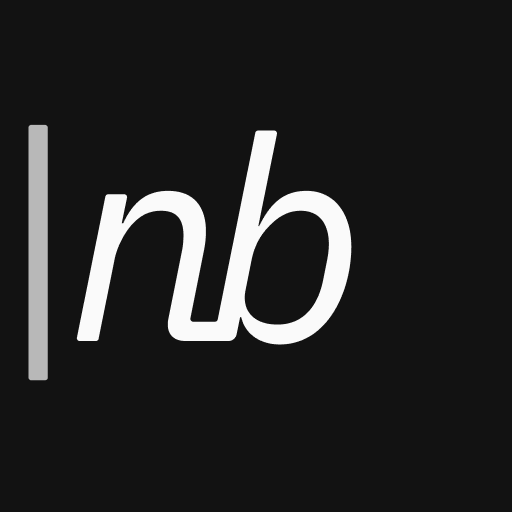
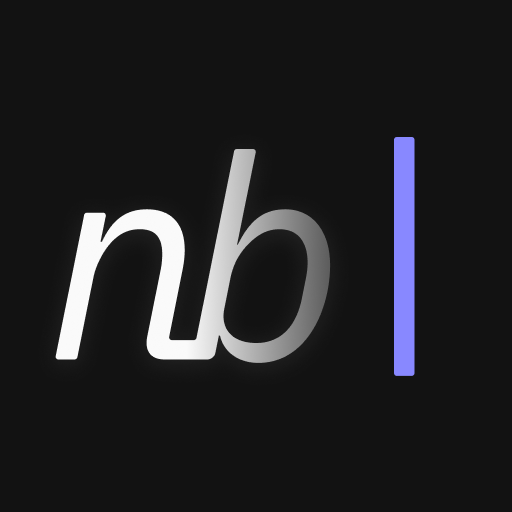
2025 12 03 refinements (#2)
* style: adjust .menu-panel vertical padding

* refactor: convert textarea to contenteditable div for improved mobile UX

This commit implements two key UX improvements for mobile devices:

1. Remove iOS form navigation controls
   - Converted textarea element to contenteditable div
   - Eliminates iOS keyboard accessory bar with prev/next buttons
   - Added proper ARIA attributes (role="textbox", aria-multiline="true")
   - Maintains accessibility while removing unnecessary form controls

2. Add paragraph spacing while preserving line height
   - Implemented 8px margin-top between paragraphs via CSS
   - Maintains 1.3 line-height within paragraphs
   - Uses white-space: pre-wrap to preserve text formatting
   - Each line break creates a new div with proper spacing

Technical changes:
- index.html: Replaced textarea with contenteditable div
- app.js: Added handleInput() to capture contenteditable input
- app.js: Added updateContentEditableContent() to render saved content
- app.js: Updated clearNote() to clear innerHTML of contenteditable div
- style.css: Added paragraph spacing rules (.note-area > div + div)
- style.css: Cleaned up iOS-specific styles, removed unnecessary rules
- sw.js: Bumped cache version from v3 to v4 for PWA updates

All changes are backward compatible with existing saved notes stored
as plain text in LocalForage.

🤖 Generated with [Claude Code](https://claude.com/claude-code)

* style(design): refine PWA icon design
[…]

Changed region(s): [[0.0312, 0.2188, 0.6875, 0.75], [0.75, 0.25, 0.8125, 0.75]]

diff --git a/app.js b/app.js
@@ -43,10 +43,13 @@ function noteApp() {
                 this.updateColorMode();
             });
 
-            // Auto-focus logic: focus if note is empty
+            // Set initial content in contenteditable div
             this.$nextTick(() => {
+                this.updateContentEditableContent();
+
+                // Auto-focus logic: focus if note is empty
                 if (!this.noteContent || this.noteContent.trim() === '') {
-                    this.$refs.textarea.focus();
+                    this.$refs.noteArea.focus();
                 }
             });
         },
@@ -59,6 +62,40 @@ function noteApp() {
                 }
             } catch (err) {
                 console.error('Error loading note:', err);
+            }
+        },
+
+        handleInput(event) {
+            // Get plain text content from contenteditable div
+            // Note: We rely on the @blur event to trigger saveNote() to avoid redundant saves
+            this.noteContent = this.$refs.noteArea.innerText || '';
+        },
+
+        updateContentEditableContent() {
+            // Update the contenteditable div with saved content
+            // SECURITY: Uses textContent (not innerHTML) to prevent XSS when setting user content
+            if (this.$refs.noteArea) {
+                // Handle empty content: leave innerHTML empty to trigger CSS :empty pseudo-element
+                if (!this.noteContent || this.noteContent.trim() === '') {
+                    this.$refs.noteArea.innerHTML = '';
+                    return;
+                }
+
+                // Convert plain text to HTML with proper line breaks
+                const lines = this.noteContent.split('\n');
+                this.$refs.noteArea.innerHTML = '';
+
+                lines.forEach((line, index) => {
+                    const div = document.createElement('div');
+                    // Use <br> for empty lines instead of zero-width space to avoid content discrepancies
+                    if (line === '') {
+                        div.appendChild(document.createElement('br'));
+                    } else {
+                        // SECURITY: Always use textContent for user content to prevent XSS
+                        div.textContent = line;
+                    }
+                    this.$refs.noteArea.appendChild(div);
+                });
             }
         },
 
@@ -202,6 +239,11 @@ function noteApp() {
                 this.noteContent = '';
                 await localforage.setItem(STORAGE_KEYS.NOTE_CONTENT, '');
 
+                // Clear the contenteditable div
+                if (this.$refs.noteArea) {
+                    this.$refs.noteArea.innerHTML = '';
+                }
+
                 // Reset confirmation state
                 this.clearConfirmPending = false;
                 if (this.clearConfirmTimeout) {
@@ -212,9 +254,9 @@ function noteApp() {
                 // Close menu
                 this.closeMenu();
 
-                // Focus textarea (since it's now empty)
+                // Focus note area (since it's now empty)
                 this.$nextTick(() => {
-                    this.$refs.textarea.focus();
+                    this.$refs.noteArea.focus();
                 });
             } catch (err) {
                 console.error('Error clearing note:', err);

diff --git a/style.css b/style.css
@@ -69,26 +69,33 @@ body {
     opacity: 1;
 }
 
-/* Note textarea */
+/* Note area */
 .note-area {
     width: 100%;
     height: 100%;
     border: none;
     outline: none;
-    resize: none;
     background: transparent;
     color: var(--text-color);
     font-family: inherit;
     padding: 20px;
     padding-top: calc(60px + env(safe-area-inset-top));
+    overflow-y: auto;
+    overflow-x: hidden;
+    word-wrap: break-word;
     -webkit-appearance: none;
     -webkit-text-size-adjust: 100%;
     /* Disable double-tap zoom */
     touch-action: manipulation;
+    /* Line height for text */
+    line-height: 1.3;
+    white-space: pre-wrap;
 }
 
-.note-area::placeholder {
-    color: transparent;
+/* Paragraph spacing - add margin between line breaks */
+/* Note: line-height inherited from parent .note-area */
+.note-area > div + div {
+    margin-top: 8px;
 }
 
 /* Scrim overlay */
@@ -298,5 +305,12 @@ body {
     .note-area {
         /* Prevent iOS zoom on focus */
         font-size: max(16px, 1em);
+    }
+}
+
+/* Ensure proper caret color on mobile */
+@media screen and (max-width: 767px) {
+    .note-area {
+        caret-color: var(--text-color);
     }
 }

diff --git a/index.html b/index.html
@@ -27,15 +27,20 @@
         </svg>
     </button>
 
-    <!-- Note textarea -->
-    <textarea
-        x-ref="textarea"
-        x-model="noteContent"
-        @input="saveNote()"
-        placeholder=""
-        :style="`font-size: ${textSize}px; line-height: 1.3;`"
+    <!-- Note area -->
+    <div
+        x-ref="noteArea"
+        contenteditable="true"
+        @input="handleInput($event)"
+        @blur="saveNote()"
+        :style="`font-size: ${textSize}px;`"
         class="note-area"
-    ></textarea>
+        role="textbox"
+        aria-label="Note content"
+        aria-multiline="true"
+        spellcheck="true"
+        autocorrect="on"
+    ></div>
 
     <!-- Menu overlay -->
     <div

diff --git a/sw.js b/sw.js
@@ -1,5 +1,5 @@
 // Service Worker for offline functionality
-const CACHE_NAME = 'notebin-v3';
+const CACHE_NAME = 'notebin-v4';
 const urlsToCache = [
   '/notebin/',
   '/notebin/index.html',
